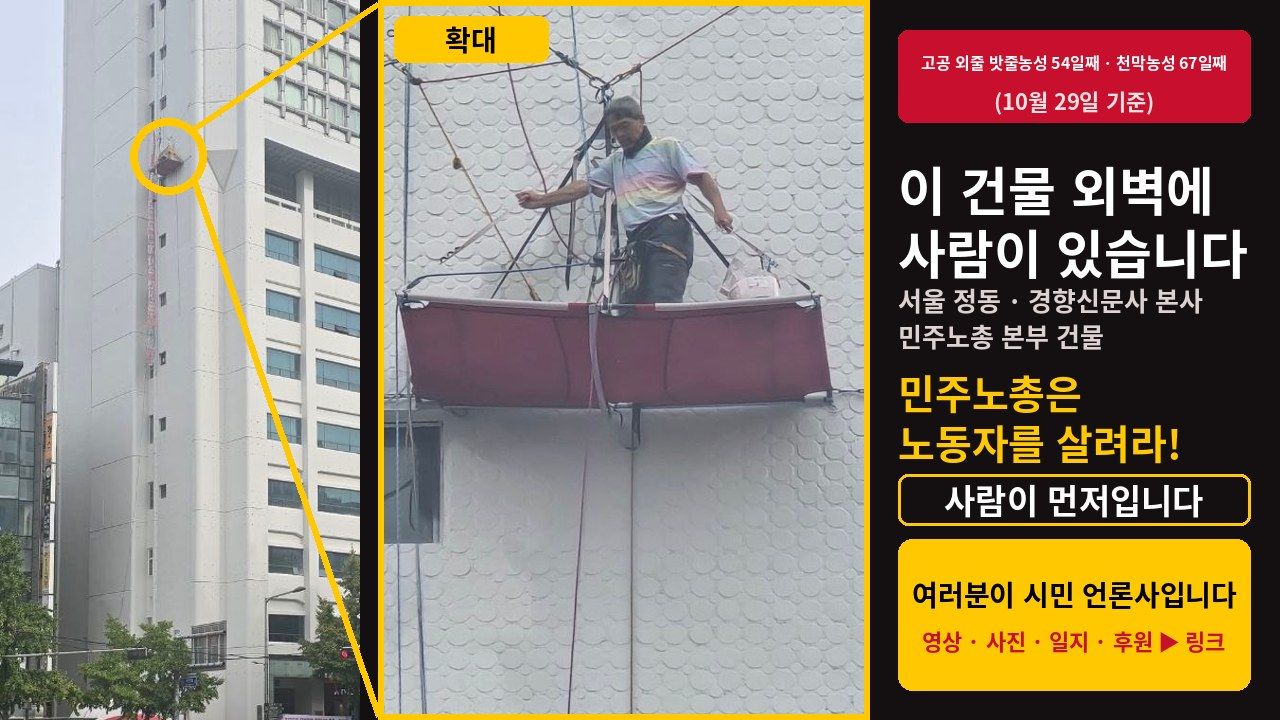
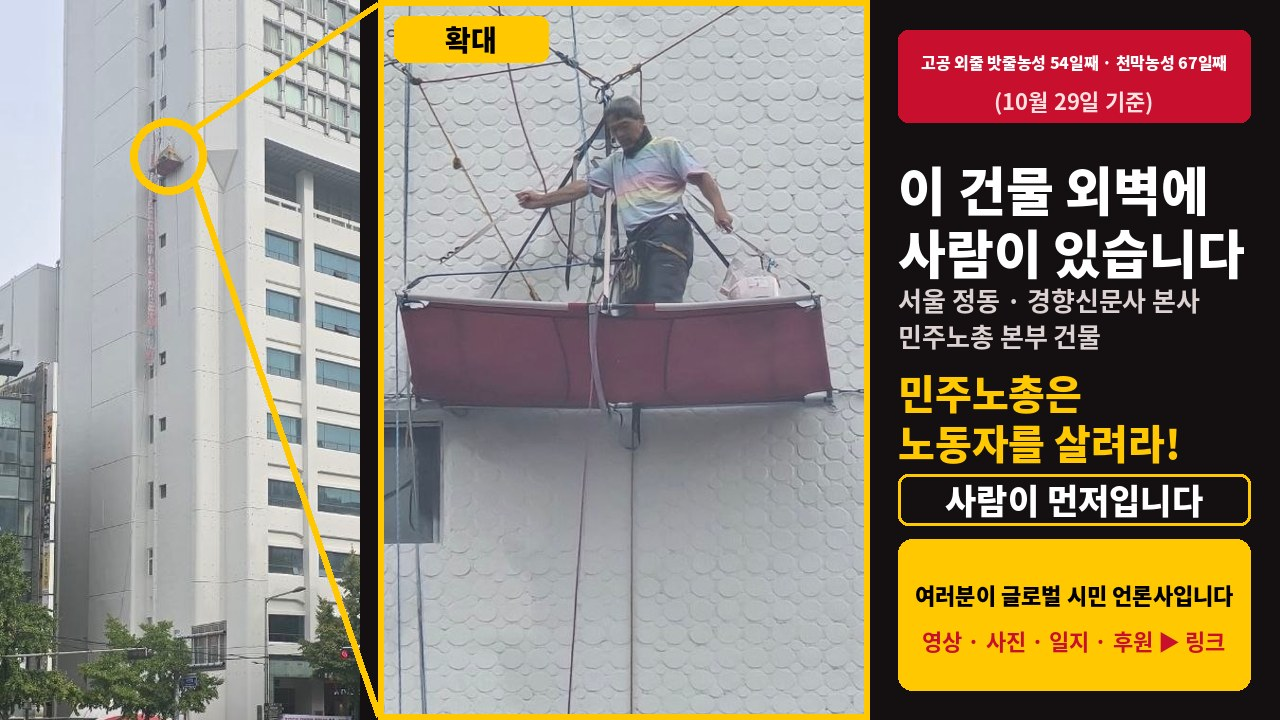
Thumbnails: 여러분이 글로벌 시민 언론사입니다 (ko/en/zh/square), fresh preview URL
Claude-Session: https://claude.ai/code/session_01Tz8GkTj4K894ZkC9FPL9ca

diff --git a/index.html b/index.html
@@ -7,10 +7,10 @@
 <meta property="og:site_name" content="정동 고공 외줄 밧줄농성">
 <meta property="og:title" content="이 건물 외벽에 사람이 있습니다 | 정동 고공 외줄 밧줄농성">
 <meta property="og:description" content="[10.28 소식] 공대위 대표자회의(18:00~19:00) / 고공·천막농성 동절기 외피 부분 설치 / 특종: 집단사직 종용 녹취록 공개 · 여러분이 글로벌 시민 언론사입니다">
-<meta property="og:image" content="https://yky1234x.github.io/jeongdong/share.jpg?v=20261029">
+<meta property="og:image" content="https://yky1234x.github.io/jeongdong/share.jpg?v=202610291155">
 <meta property="og:image:width" content="1280"><meta property="og:image:height" content="720">
 <meta name="twitter:card" content="summary_large_image">
-<meta name="twitter:image" content="https://yky1234x.github.io/jeongdong/share.jpg?v=20261029">
+<meta name="twitter:image" content="https://yky1234x.github.io/jeongdong/share.jpg?v=202610291155">
 <style>:root{color-scheme:light;padding-top:env(safe-area-inset-top,0px);padding-bottom:env(safe-area-inset-bottom,0px)}body{margin:0;font-family:system-ui,-apple-system,"Apple SD Gothic Neo","Malgun Gothic",sans-serif;font-size:14px}img{max-width:100%}[hidden]{display:none!important}</style>
 </head><body>
 <link rel="preconnect" href="https://fonts.googleapis.com">
@@ -169,7 +169,7 @@ footer strong{color:var(--fg);display:block;font-size:15px}
 <header class="band">
   <div class="wrap">
     <div class="loc" id="loc">서울 정동 경향신문사 외벽 고공 외줄 밧줄농성</div>
-    <div class="upd" data-upd>최종 업데이트 2026. 10. 29. 10:48</div>
+    <div class="upd" data-upd>최종 업데이트 2026. 10. 29. 11:55</div>
     <div class="langs" role="group" aria-label="Language">
       <button type="button" id="b-ko" data-l="ko" aria-pressed="true">한국어</button>
       <button type="button" id="b-en" data-l="en" aria-pressed="false">English</button>

diff --git a/tools/gen_share.py b/tools/gen_share.py
@@ -26,15 +26,15 @@ M, D = today.month, today.day
 T = {
  'ko': dict(i=1, days=f'고공 외줄 밧줄농성 {sky}일째 · 천막농성 {tent}일째', asof=f'({M}월 {D}일 기준)',
             h=['이 건물 외벽에', '사람이 있습니다'], sub=['서울 정동 · 경향신문사 본사', '민주노총 본부 건물'],
-            cry=['민주노총은', '노동자를 살려라!'], first='사람이 먼저입니다', press='여러분이 시민 언론사입니다',
+            cry=['민주노총은', '노동자를 살려라!'], first='사람이 먼저입니다', press='여러분이 글로벌 시민 언론사입니다',
             go='영상 · 사진 · 일지 · 후원 ▶ 링크', zoom='확대'),
  'en': dict(i=1, days=f'Wall: day {sky} · Tent: day {tent}', asof=f'(as of {today.strftime("%b")} {D})',
             h=['A person is living', 'on this wall'], sub=['Kyunghyang Shinmun HQ, Seoul', 'also home to KCTU headquarters'],
-            cry=['KCTU,', 'save the workers!'], first='People come first', press='You are the citizen press',
+            cry=['KCTU,', 'save the workers!'], first='People come first', press='You are the global citizen press',
             go='Video · Photos · Log ▶ Link', zoom='ZOOM'),
  'zh': dict(i=2, days=f'高空单绳静坐第{sky}天 · 帐篷静坐第{tent}天', asof=f'（截至{M}月{D}日）',
             h=['这栋大楼外墙上', '有人'], sub=['首尔贞洞 · 京乡新闻总部', '民主劳总总部所在大楼'],
-            cry=['民主劳总，', '救救劳动者！'], first='人比什么都重要', press='你们就是公民媒体',
+            cry=['民主劳总，', '救救劳动者！'], first='人比什么都重要', press='你们就是全球公民媒体',
             go='视频 · 照片 · 日志 ▶ 链接', zoom='放大'),
 }
 
@@ -92,7 +92,7 @@ def square(t):
     s = '이 건물 외벽에 사람이 있습니다'; d.text((S // 2, y + 40), s, font=fit(s, 70, S - 80), fill='white', anchor='mm')
     s = '민주노총은 노동자를 살려라! · 사람이 먼저입니다'; d.text((S // 2, y + 130), s, font=fit(s, 44, S - 80), fill=YEL, anchor='mm')
     d.rounded_rectangle((60, y + 190, S - 60, y + 400), radius=20, fill=YEL)
-    s = '여러분이 시민 언론사입니다'; d.text((S // 2, y + 255), s, font=fit(s, 62, S - 200), fill='black', anchor='mm')
+    s = '여러분이 글로벌 시민 언론사입니다'; d.text((S // 2, y + 255), s, font=fit(s, 62, S - 200), fill='black', anchor='mm')
     s = '링크에서 영상 · 사진 · 투쟁 일지 · 후원 안내'; d.text((S // 2, y + 340), s, font=fit(s, 36, S - 200, True), fill=RED, anchor='mm')
     return sq
 
